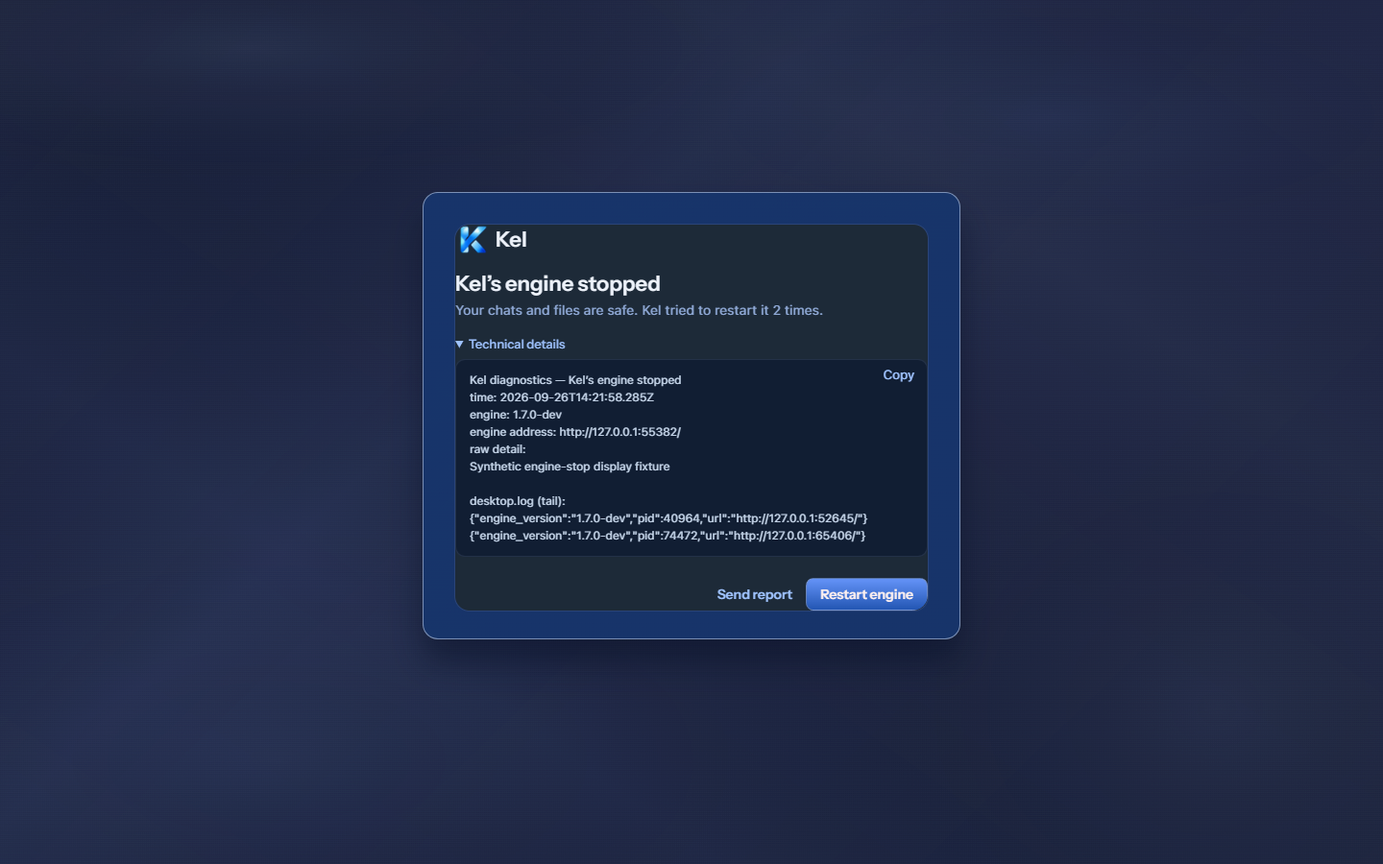
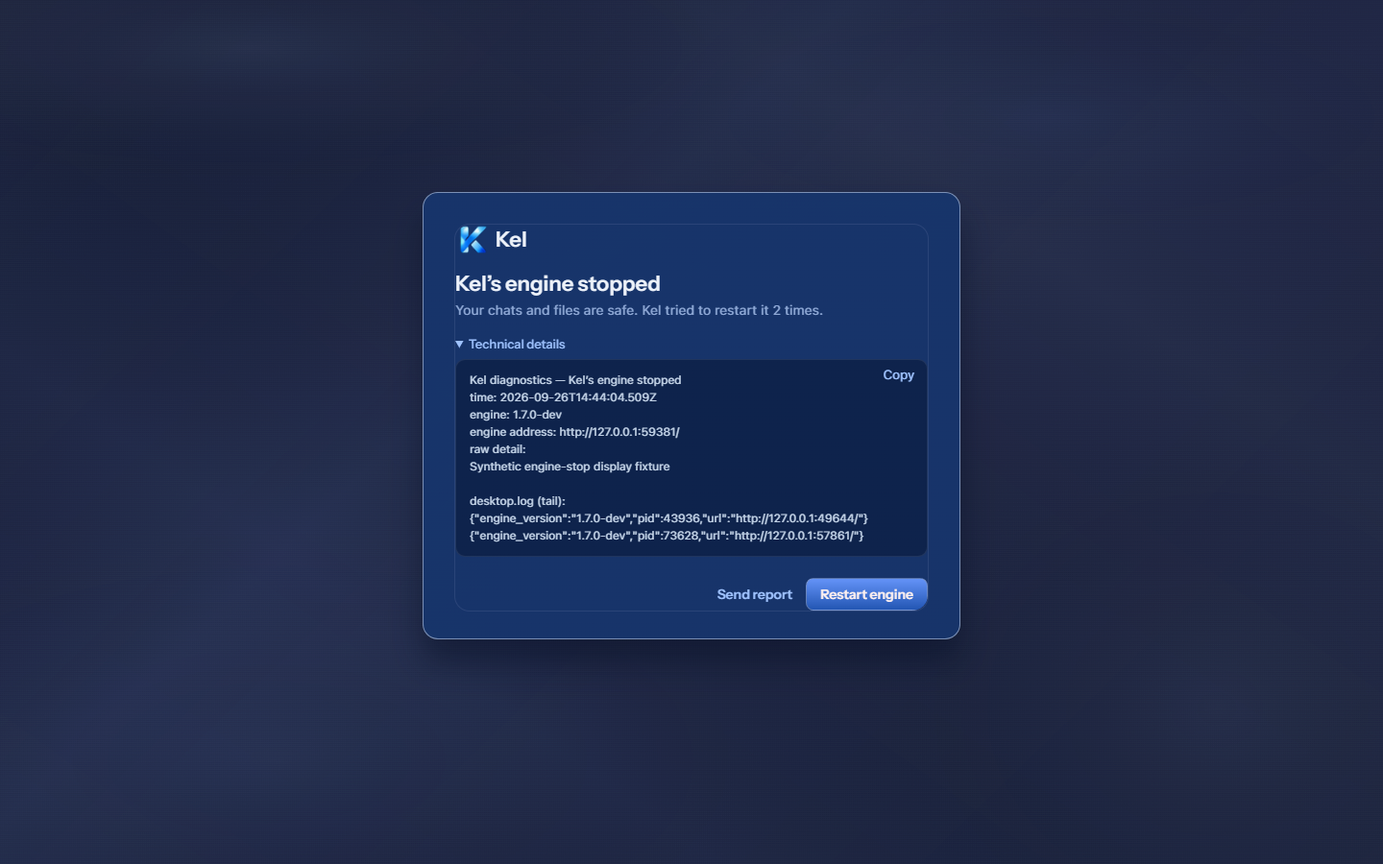
Complete desktop update and task delete dialogs

Changed region(s): [[0.3125, 0.2489, 0.6875, 0.7156]]

diff --git a/desktop/packages/desktop/src/renderer/styles/kel-shell.css b/desktop/packages/desktop/src/renderer/styles/kel-shell.css
@@ -3402,7 +3402,7 @@ html body .arco-modal.kel-diagnostics-export-modal { position: fixed; left: 50%;
 
 html body .arco-modal.kel-stopped-engine-modal { position: fixed; left: 50%; top: 200px !important; margin: 0 !important; translate: -50% 0; box-sizing: border-box; width: 560px !important; max-width: calc(100vw - 32px); padding: 32px 32px 28px; border: 1px solid rgba(221,233,255,.5); border-radius: 16px; background-color: rgba(15,45,100,.94) !important; background-image: linear-gradient(rgba(159,195,255,.05),rgba(159,195,255,.05)) !important; box-shadow: 0 24px 32px rgba(5,13,36,.45); }
 body:has(.kel-stopped-engine-modal) .arco-modal-mask { background: linear-gradient(rgba(30,75,176,.1),rgba(30,75,176,.1)),url('../assets/figma/canvas.svg') center/cover; opacity: 1; }
-.kel-stopped-engine-modal :is(.arco-modal-content,.aionui-modal-wrapper,.aionui-modal-std-body) { background: transparent !important; padding: 0; }
+html[data-theme='dark'] body .kel-stopped-engine-modal :is(.arco-modal-content,.aionui-modal-wrapper,.aionui-modal-body-content) { background: transparent !important; padding: 0; }
 .kel-stopped-engine-modal .kel-startup-logo { color: #edf2fa; }
 .kel-stopped-engine-body { display: flex; flex-direction: column; gap: 18px; margin-top: 18px; }
 .kel-stopped-engine-titles h1 { margin: 0 0 6px; color: #edf2fa; font: 600 22px/26px var(--kel-shell-heading); }
@@ -3414,3 +3414,34 @@ body:has(.kel-stopped-engine-modal) .arco-modal-mask { background: linear-gradie
 .kel-stopped-engine-actions { display: flex; justify-content: flex-end; gap: 10px; padding-top: 4px; }
 .kel-stopped-engine-actions .kel-btn { height: 34px; padding: 0 4px; border: 0; border-radius: 8px; background: transparent; color: #9fc3ff; font: 600 14px/20px var(--kel-shell-heading); }
 .kel-stopped-engine-actions .kel-btn--primary { padding: 0 14px; border: 1px solid rgba(140,150,167,.5); background: linear-gradient(#6493f8,#2356b3); color: #fff1f0; }
+
+/* Desktop update offer uses the current Figma modal; download/install states retain their controls. */
+html[data-theme='dark'] body .arco-modal.kel-update-available-modal { position: fixed; left: 50%; top: 220px !important; margin: 0 !important; translate: -50% 0; width: 500px !important; max-width: calc(100vw - 32px); box-sizing: border-box; border: 1px solid rgba(221,233,255,.5); border-radius: 16px; background-color: rgba(15,45,100,.94) !important; background-image: linear-gradient(rgba(159,195,255,.05),rgba(159,195,255,.05)) !important; backdrop-filter: blur(24px); box-shadow: 0 24px 32px rgba(5,13,36,.55); }
+html[data-theme='dark'] body .kel-update-available-modal :is(.arco-modal-content,.aionui-modal-wrapper,.aionui-modal-body-content) { background: transparent !important; }
+.kel-update-available-modal .aionui-modal-std-header { padding: 20px 24px 0; border: 0 !important; text-align: left; }
+.kel-update-available-modal .aionui-modal-std-header h3 { margin: 0; color: #edf2fa; font: 600 18px/22px var(--kel-shell-heading); text-align: left; }
+.kel-update-available-modal .aionui-modal-std-header p { margin: 4px 0 0; color: #8fa9d6; font: 400 13px/16px var(--kel-shell-body); }
+.kel-update-available-modal .aionui-modal-std-body { padding: 16px 24px 24px; }
+.kel-update-available-body { display: flex; flex-direction: column; gap: 16px; }
+.kel-update-available-notes { padding: 12px 14px; border-radius: 10px; background: rgba(6,18,46,.4); max-height: min(320px,35vh); overflow: auto; color: #c4d4e8; font: 400 13px/16px var(--kel-shell-body); overflow-wrap: anywhere; }
+.kel-update-available-notes h2 { margin: 0 0 6px; color: #9fc3ff; font: 500 12px/15px var(--kel-shell-heading); }
+.kel-update-available-notes :is(p,ul,ol) { margin: 0; font: inherit; }
+.kel-update-available-notes :is(ul,ol) { padding-left: 13px; }
+.kel-update-available-notes li + li { margin-top: 6px; }
+.kel-update-available-actions { display: flex; justify-content: flex-end; gap: 10px; }
+.kel-update-available-actions .kel-btn { height: 34px; padding: 0 4px; border: 0; background: transparent; color: #9fc3ff; font: 600 14px/20px var(--kel-shell-heading); }
+.kel-update-available-actions .kel-btn--primary { padding: 0 14px; border: 1px solid rgba(120,195,178,.55); background: linear-gradient(#16715e,#064b3e); color: #d3ffed; }
+body:has(.kel-update-available-modal) .arco-modal-mask { background: rgba(10,20,48,.62); }
+
+html[data-theme='dark'] body .arco-modal.kel-task-delete-modal { position: fixed; left: 50%; top: 300px !important; margin: 0 !important; translate: -50% 0; width: 460px !important; max-width: calc(100vw - 32px); box-sizing: border-box; border: 1px solid rgba(221,233,255,.5); border-radius: 16px; background-color: rgba(15,45,100,.94) !important; background-image: linear-gradient(rgba(159,195,255,.05),rgba(159,195,255,.05)) !important; backdrop-filter: blur(24px); box-shadow: 0 24px 32px rgba(5,13,36,.55); }
+html[data-theme='dark'] body .kel-task-delete-modal :is(.arco-modal-content,.aionui-modal-wrapper,.aionui-modal-body-content) { background: transparent !important; }
+.kel-task-delete-modal .aionui-modal-std-header { padding: 20px 24px 0; border: 0 !important; text-align: left; }
+.kel-task-delete-modal .aionui-modal-std-header h3 { margin: 0; color: #edf2fa; font: 600 18px/22px var(--kel-shell-heading); text-align: left; }
+.kel-task-delete-modal .aionui-modal-std-header p { margin: 6px 0 0; color: #8fa9d6; font: 400 13px/20px var(--kel-shell-body); }
+.kel-task-delete-modal .aionui-modal-std-body { padding: 16px 24px 24px; }
+.kel-task-delete-actions { display: flex; justify-content: flex-end; gap: 10px; }
+.kel-task-delete-actions .kel-btn { height: 34px; padding: 0 4px; border: 0; background: transparent; color: #9fc3ff; font: 600 14px/20px var(--kel-shell-heading); }
+.kel-task-delete-actions .kel-btn--primary { padding: 0 14px; border: 0; background: linear-gradient(#a6443f,#8b312d); color: #fff1f0; box-shadow: inset 0 1px rgba(255,255,255,.2),0 2px 6px rgba(6,18,46,.3); }
+body:has(.kel-task-delete-modal) .arco-modal-mask { background: rgba(10,20,48,.62); }
+
+html[data-theme='dark'] body .kel-stopped-engine-modal .aionui-modal-wrapper { border: 0 !important; box-shadow: none !important; }

diff --git a/desktop/packages/desktop/src/renderer/components/settings/UpdateNotificationCard.tsx b/desktop/packages/desktop/src/renderer/components/settings/UpdateNotificationCard.tsx
@@ -4,6 +4,11 @@
  * SPDX-License-Identifier: Apache-2.0
  */
 
+import AionModal from '@renderer/components/base/AionModal';
+import { KelButton } from '@renderer/components/kel/KelPrimitives';
+import { useLayoutContext } from '@renderer/hooks/context/LayoutContext';
+import ReactMarkdown from 'react-markdown';
+import { openExternalUrl } from '@renderer/utils/platform';
 import MarkdownView from '@/renderer/components/Markdown';
 import { useFeedback } from '@/renderer/hooks/context/FeedbackContext';
 import { Button, Modal, Progress } from '@arco-design/web-react';
@@ -23,6 +28,7 @@ const renderNotificationLayer = (node: React.ReactElement) => {
 
 const UpdateNotificationCard: React.FC = () => {
   const { t, i18n } = useTranslation();
+  const isMobile = Boolean(useLayoutContext()?.isMobile);
   const { state, versionLabel, actions } = useUpdateNotificationController();
   const { openFeedback } = useFeedback();
   const [releaseLogVisible, setReleaseLogVisible] = React.useState(false);
@@ -257,7 +263,23 @@ const UpdateNotificationCard: React.FC = () => {
 
   return renderNotificationLayer(
     <>
-      <section
+      {!isMobile && state.status === 'available' ? (
+        <AionModal visible className='kel-update-available-modal' variant='standard'
+          header={{ title: 'Update available', subtitle: `Kel ${versionLabel} is ready. You have ${state.currentVersion}.`, showClose: false }}
+          footer={null} closable={false} onCancel={() => actions.dismiss('later')} focusLock autoFocus
+          style={{ width: 500 }}>
+          <div className='kel-update-available-body'>
+            <section className='kel-update-available-notes' aria-label='What’s new'>
+              <h2>What’s new</h2>
+              {releaseNotes ? <ReactMarkdown components={{ a: ({ href, children }) => <a href={href} onClick={(event) => { event.preventDefault(); if (href && /^https?:/i.test(href)) void openExternalUrl(href); }}>{children}</a> }}>{releaseNotes}</ReactMarkdown> : <p>{state.releaseNotesStatus === 'failed' ? t('update.releaseNotesFailed') : t('update.releaseNotesLoading')}</p>}
+            </section>
+            <div className='kel-update-available-actions'>
+              <KelButton variant='quiet' onClick={() => actions.dismiss('later')}>{t('update.later')}</KelButton>
+              <KelButton variant='primary' disabled={!state.autoUpdateAvailable && !state.updateInfo?.recommendedAsset} onClick={actions.startDownload}>Download &amp; install</KelButton>
+            </div>
+          </div>
+        </AionModal>
+      ) : <section
         data-testid='update-notification-card'
         className='fixed end-24px bottom-24px z-1000 w-max min-w-300px max-w-[calc(100vw-32px)] bg-1 border border-border-2 rd-8px shadow-[0_2px_16px_rgba(0,0,0,0.12)] overflow-hidden'
       >
@@ -300,7 +322,7 @@ const UpdateNotificationCard: React.FC = () => {
             <div className='flex justify-start gap-8px px-16px pt-6px pb-12px'>{renderActions()}</div>
           </>
         )}
-      </section>
+      </section>}
       <Modal
         title={t('update.releaseLog')}
         visible={releaseLogVisible}

diff --git a/desktop/packages/desktop/src/renderer/pages/cron/ScheduledTasksPage/TaskDetailPage.tsx b/desktop/packages/desktop/src/renderer/pages/cron/ScheduledTasksPage/TaskDetailPage.tsx
@@ -4,6 +4,7 @@
  * SPDX-License-Identifier: Apache-2.0
  */
 
+import AionModal from '@renderer/components/base/AionModal';
 import React, { useCallback, useEffect, useRef, useState } from 'react';
 import { useTranslation } from 'react-i18next';
 import { useNavigate, useParams } from 'react-router-dom';
@@ -372,14 +373,14 @@ const TaskDetailPage: React.FC = () => {
           <span>Delete this task<small>Its conversations are deleted too.</small></span>
           <KelButton variant='primary' onClick={() => setConfirmDelete(true)}>Delete</KelButton>
         </div>
-        {confirmDelete && <div className='kel-task-detail-delete-confirm' role='alertdialog' aria-label='Delete scheduled task'>
-          <p>Delete this task and its conversations?</p>
-          <div className='kel-row'>
-            <span className='kel-grow' />
-            <KelButton variant='quiet' onClick={() => setConfirmDelete(false)}>Keep task</KelButton>
-            <KelButton variant='primary' onClick={() => void handleDelete()}>Delete task and conversations</KelButton>
+        {confirmDelete && <AionModal visible className='kel-task-delete-modal' variant='standard'
+          header={{ title: 'Delete this scheduled task?', subtitle: 'Its conversations are deleted too. This can’t be undone.', showClose: false }}
+          footer={null} closable={false} onCancel={() => setConfirmDelete(false)} focusLock autoFocus style={{ width: 460 }}>
+          <div className='kel-task-delete-actions'>
+            <KelButton variant='quiet' onClick={() => setConfirmDelete(false)}>Keep</KelButton>
+            <KelButton variant='primary' onClick={() => void handleDelete()}>Delete task</KelButton>
           </div>
-        </div>}
+        </AionModal>}
       </KelCard>
       <KelCard title='History' className='kel-task-detail-history' actions={conversations.length > 0 && (
         historyBatchMode ? <span className='kel-task-detail-history-actions'>

diff --git a/docs/v2/MARATHON_STATE.md b/docs/v2/MARATHON_STATE.md
@@ -12,9 +12,10 @@ setup_commit: 47eb3b49322a7cfbe85bbee7a0674c77037b127f   # V2 program initializa
 remote: https://github.com/BeardedBats/Kel
 
 phase: V2-19                # bounded product and Figma regression; release candidate still pending
-next_item: Desktop first: implement Update available, shared delete confirmation, then the remaining desktop frames and populated variants. Starting, stopped-engine, and diagnostics export have source evidence; their larger milestone package is pending. Canonical App stays 8c67121 until broader desktop completion. Keep mobile paused. Pet enable needs Nick’s policy decision; diagnostics maintenance needs matching engine operations.
+next_item: Desktop first: implement the remaining Ramble capture/API/merge/vetting, setup, Kibble, and other desktop frames/variants. Current startup, stopped-engine, diagnostics, update, and delete views have source evidence and await a larger milestone package. Keep mobile paused and canonical App at 8c67121 until broader desktop completion. Pet enable needs Nick’s policy decision; diagnostics maintenance needs matching engine operations.
 
 status: partial
+# [Desktop Update available and task delete confirmation](evidence/figma-full-audit/DESKTOP_SHARED_DIALOGS_SOURCE.md) pass source checks at 1440/800px. Update uses actual versions/release notes and existing download authority. Delete now uses the Figma modal; Keep/Escape and intercepted deletion handoff passed. TypeScript, source build, and three update-policy tests passed. Stopped-engine inner surface styling was corrected and rechecked. These changes await the next larger package. Canonical App and Data remain untouched. Current desktop context coverage is 66 READ / 9 PENDING; READ does not mean complete parity.
 # [Combined desktop milestone](evidence/figma-full-audit/DESKTOP_COMPLETION_MILESTONE_PACKAGE.md) passed packaged 1440/800px checks at `f8e6d86`: Work, Permissions, Knowledge, saved recipes, and chat menus. [Starting, stopped engine, and diagnostics export](evidence/figma-full-audit/DESKTOP_RUNTIME_VIEWS_SOURCE.md) now pass source checks at both widths. Real isolated restart and sanitized local export passed. TypeScript, source build, 17 runtime diagnostics tests, and the final 60-file/427-test desktop suite passed. These latest runtime views await the next larger package. Canonical App remains `8c67121`; durable Data was untouched.
 # [Desktop Knowledge and project recipes](evidence/figma-full-audit/DESKTOP_KNOWLEDGE_CURRENT_REVISION.md) now have 1440/800px source evidence. Proposal labels/order, row icons, card rhythm, map columns, saved-record scrolling, valid memory actions, and saved recipe links are implemented. Real isolated-engine mutations passed. TypeScript, ten focused Work/recipe tests, and 60 files / 427 desktop tests pass. The later combined milestone package passed; App and Data remain unchanged.
 # [Active/waiting Work and populated Permissions](evidence/figma-full-audit/DESKTOP_WORK_PERMISSIONS_STATES.md) pass real isolated-engine checks at 1440/800px. Job selection, current step, continuation instructions, wrapping, and scrolling are repaired. Answer request, Allow once, and Revoke passed through real engine routes. Auto Edit and Add a file labels match live Figma. TypeScript, source build, 19 Work/attention tests, and four menu DOM tests passed. App and Data were untouched. The later combined milestone package passed.

diff --git a/docs/v2/evidence/figma-full-audit/DESKTOP_SHARED_DIALOGS_SOURCE.md b/docs/v2/evidence/figma-full-audit/DESKTOP_SHARED_DIALOGS_SOURCE.md
@@ -1,0 +1,26 @@
+# Desktop shared dialogs — source evidence, 2026-09-26
+
+Fresh Figma Update available `273:10168` and Delete confirmation `273:11796` drove these changes. They use existing AionModal/KelButton components and engine/update authority. Mobile retains its current UI. These are current-renderer checks in the existing isolated packaged shell, not packaged renderer proof.
+
+## Update available
+
+The desktop offer is now a centered 500px modal at y220: x470 on 1440px and x150 on 800px. The frame has an 18px title, actual available/current versions, inline release notes, and Later / Download & install actions. Notes use existing Markdown dependencies with compact 13px text and 400 weight. No sample release copy enters production. The fixture supplies three synthetic notes and versions, giving a 261px height; real note length changes height within a bounded scroller.
+
+The measured surface is rgba(15,45,100,.94), radius 16px, blur 24px, with a full border and green action. Later and Escape passed at both widths. Download remains on the existing controller. It is disabled without an automatic download or recommended asset. Download, installation, and release-note external links were not invoked. Existing downloading, progress, cancel, minimize, install, error, and release-log views remain on their original path.
+
+## Delete scheduled task
+
+The previous inline confirmation is now the current 460×146 Figma modal at y300: x490 on 1440px and x170 on 800px. Its heading, deletion warning, Keep action, and red Delete task action match current copy and geometry. It retains the existing task/conversation deletion handler. Keep and Escape dismissed the modal at both widths. The final Delete task click invoked the existing HTTP deletion route and returned to Scheduled tasks under an intercepted response.
+
+The task GET/DELETE responses were injected for this display-only fixture. This proves presentation, dismissal, and action handoff, not persisted task or conversation deletion. Real fixture creation was attempted but failed before a record was created: raw request setup rejected JSON, and the form lacked an eligible model. No schedule ran. The final probe wrote no task or conversation and did not call a provider. Existing backend deletion behavior was unchanged.
+
+## Validation and limits
+
+Both widths had zero page/internal overflow and zero renderer errors. TypeScript, the source build, and three update-policy tests passed. The earlier full 60-file/427-test suite covers the preceding runtime-view batch. No full-suite result is claimed for these later dialogs. Current runtime views and these dialogs await a larger milestone package; canonical App remains `8c67121` and durable Data was untouched.
+
+The stopped-engine source surface also received a scoped style correction: its inner wrapper is transparent and has no second border. Final 1440/800px render/copy checks passed. Its previously verified real isolated restart was not repeated for this style change.
+
+![update at 1440px](DESKTOP_UPDATE_SOURCE_1440.png)
+![update at 800px](DESKTOP_UPDATE_SOURCE_800.png)
+![delete at 1440px](DESKTOP_DELETE_SOURCE_1440.png)
+![delete at 800px](DESKTOP_DELETE_SOURCE_800.png)

diff --git a/docs/v2/RESUME.md b/docs/v2/RESUME.md
@@ -4,7 +4,9 @@
 
 The live Kel Figma now uses desktop page `319:2` with 75 frames and mobile page `319:3858` with 50 frames. The old FINAL pages and most old frame IDs no longer resolve. [The current inventory](evidence/figma-full-audit/FIGMA_REVISION_2026-09-25.md) records the replacement IDs. All older Figma parity screenshots are **SUPERSEDED BY FIGMA REVISION** until compared with current frames. The canonical App still packages `8c67121`; do not cite it as proof for the new revision. Current Tools, Chat/drawer, approval, tool-call/plan, error, reconnecting, mobile model picker, mobile approval details, populated Transcriptions, mobile Ramble list/detail/vetting, mobile Projects, mobile Work empty state, mobile Activity running state, and mobile Permissions empty state have linked scoped package checks in the inventory.
 
-**Next item:** Desktop first: implement Update available, shared delete confirmation, then the remaining desktop frames and populated variants. Starting, stopped-engine, and diagnostics export have source evidence; their larger milestone package is pending. Canonical App stays 8c67121 until broader desktop completion. Keep mobile paused. Pet enable needs Nick’s policy decision; diagnostics maintenance needs matching engine operations.
+**Next item:** Desktop first: implement the remaining Ramble capture/API/merge/vetting, setup, Kibble, and other desktop frames/variants. Current startup, stopped-engine, diagnostics, update, and delete views have source evidence and await a larger milestone package. Keep mobile paused and canonical App at 8c67121 until broader desktop completion. Pet enable needs Nick’s policy decision; diagnostics maintenance needs matching engine operations.
+
+[Desktop Update available and task delete confirmation](evidence/figma-full-audit/DESKTOP_SHARED_DIALOGS_SOURCE.md) pass source checks at 1440/800px. Update uses actual versions/release notes and existing download authority. Delete now uses the Figma modal; Keep/Escape and intercepted deletion handoff passed. TypeScript, source build, and three update-policy tests passed. Stopped-engine inner surface styling was corrected and rechecked. These changes await the next larger package. Canonical App and Data remain untouched. Current desktop context coverage is 66 READ / 9 PENDING; READ does not mean complete parity.
 
 [Combined desktop milestone](evidence/figma-full-audit/DESKTOP_COMPLETION_MILESTONE_PACKAGE.md) passed packaged 1440/800px checks at `f8e6d86`: Work, Permissions, Knowledge, saved recipes, and chat menus. [Starting, stopped engine, and diagnostics export](evidence/figma-full-audit/DESKTOP_RUNTIME_VIEWS_SOURCE.md) now pass source checks at both widths. Real isolated restart and sanitized local export passed. TypeScript, source build, 17 runtime diagnostics tests, and the final 60-file/427-test desktop suite passed. These latest runtime views await the next larger package. Canonical App remains `8c67121`; durable Data was untouched.
 

diff --git a/docs/v2/evidence/figma-full-audit/FIGMA_REVISION_2026-09-25.md b/docs/v2/evidence/figma-full-audit/FIGMA_REVISION_2026-09-25.md
@@ -91,11 +91,11 @@
 | `273:9737` | Kel / Overlay — Slash menu | `shared shell / overlay` | [340px source render; actual commands](DESKTOP_CHAT_MENUS_CURRENT_REVISION.md). Labels now match; milestone package pending. | READ |
 | `273:9951` | Kel / Overlay — Attach menu | `shared shell / overlay` | [220px source render; both file paths](DESKTOP_CHAT_MENUS_CURRENT_REVISION.md). Actual catalog controls retained; milestone package pending. | READ |
 | `273:10383` | Kel / Overlay — Ramble API key | `/transcription` | New or replaced node; prior pair absent. | PENDING |
-| `273:10168` | Kel / Overlay — Update available | `shared shell / overlay` | Fresh context inspected; desktop modal implementation next. | READ |
+| `273:10168` | Kel / Overlay — Update available | `shared shell / overlay` | [Shared dialog source checks](DESKTOP_SHARED_DIALOGS_SOURCE.md); milestone package pending. | READ |
 | `273:10599` | Kel / Overlay — Ramble merge | `/transcription` | New or replaced node; prior pair absent. | PENDING |
 | `273:10837` | Kel / Overlay — Ramble vetting answers | `/transcription` | New or replaced node; prior pair absent. | PENDING |
 | `273:11082` | Kel / Overlay — Export diagnostics | `/diagnostics` | [Runtime source checks](DESKTOP_RUNTIME_VIEWS_SOURCE.md); milestone package pending. | READ |
-| `273:11796` | Kel / Overlay — Confirm delete | `shared shell / overlay` | New or replaced node; prior pair absent. | PENDING |
+| `273:11796` | Kel / Overlay — Confirm delete | `shared shell / overlay` | [Shared dialog source checks](DESKTOP_SHARED_DIALOGS_SOURCE.md); deletion handoff intercepted. | READ |
 | `273:1911` | Kel / Chat — Approval card | `/chat` | Current pending and settled shapes compared in isolated package at 1440px. | READ |
 | `273:12085` | Kel / State — Empty (Connections) | `/connections` | Current empty card implemented and compared in isolated package at 1440 and 800px. [Scoped evidence](DESKTOP_CONNECTIONS_CURRENT_REVISION.md). | READ |
 | `273:12291` | Kel / State — Loading (Activity) | `/activity` | [Isolated package checks](DESKTOP_PENDING_STATES_CURRENT_REVISION.md), source `98387fc`. | READ |

diff --git a/docs/v2/IMPLEMENTATION_STATUS.md b/docs/v2/IMPLEMENTATION_STATUS.md
@@ -1,5 +1,10 @@
 # KEL V2.0 — IMPLEMENTATION STATUS
 
+## Desktop shared dialogs (2026-09-26)
+
+[Desktop Update available and task delete confirmation](evidence/figma-full-audit/DESKTOP_SHARED_DIALOGS_SOURCE.md) pass source checks at 1440/800px. Update uses actual versions/release notes and existing download authority. Delete now uses the Figma modal; Keep/Escape and intercepted deletion handoff passed. TypeScript, source build, and three update-policy tests passed. Stopped-engine inner surface styling was corrected and rechecked. These changes await the next larger package. Canonical App and Data remain untouched. Current desktop context coverage is 66 READ / 9 PENDING; READ does not mean complete parity.
+
+
 ## Desktop milestone and runtime views (2026-09-26)
 
 [Combined desktop milestone](evidence/figma-full-audit/DESKTOP_COMPLETION_MILESTONE_PACKAGE.md) passed packaged 1440/800px checks at `f8e6d86`: Work, Permissions, Knowledge, saved recipes, and chat menus. [Starting, stopped engine, and diagnostics export](evidence/figma-full-audit/DESKTOP_RUNTIME_VIEWS_SOURCE.md) now pass source checks at both widths. Real isolated restart and sanitized local export passed. TypeScript, source build, 17 runtime diagnostics tests, and the final 60-file/427-test desktop suite passed. These latest runtime views await the next larger package. Canonical App remains `8c67121`; durable Data was untouched.

diff --git a/docs/v2/KNOWN_LIMITATIONS.md b/docs/v2/KNOWN_LIMITATIONS.md
@@ -1,5 +1,10 @@
 # KEL V2.0 — KNOWN LIMITATIONS
 
+## Desktop shared dialogs (2026-09-26)
+
+[Desktop Update available and task delete confirmation](evidence/figma-full-audit/DESKTOP_SHARED_DIALOGS_SOURCE.md) pass source checks at 1440/800px. Update uses actual versions/release notes and existing download authority. Delete now uses the Figma modal; Keep/Escape and intercepted deletion handoff passed. TypeScript, source build, and three update-policy tests passed. Stopped-engine inner surface styling was corrected and rechecked. These changes await the next larger package. Canonical App and Data remain untouched. Current desktop context coverage is 66 READ / 9 PENDING; READ does not mean complete parity.
+
+
 ## Desktop milestone and runtime views (2026-09-26)
 
 [Combined desktop milestone](evidence/figma-full-audit/DESKTOP_COMPLETION_MILESTONE_PACKAGE.md) passed packaged 1440/800px checks at `f8e6d86`: Work, Permissions, Knowledge, saved recipes, and chat menus. [Starting, stopped engine, and diagnostics export](evidence/figma-full-audit/DESKTOP_RUNTIME_VIEWS_SOURCE.md) now pass source checks at both widths. Real isolated restart and sanitized local export passed. TypeScript, source build, 17 runtime diagnostics tests, and the final 60-file/427-test desktop suite passed. These latest runtime views await the next larger package. Canonical App remains `8c67121`; durable Data was untouched.

diff --git a/docs/v2/TEST_EVIDENCE.md b/docs/v2/TEST_EVIDENCE.md
@@ -1,5 +1,10 @@
 # KEL V2.0 — TEST EVIDENCE
 
+## Desktop shared dialogs (2026-09-26)
+
+[Desktop Update available and task delete confirmation](evidence/figma-full-audit/DESKTOP_SHARED_DIALOGS_SOURCE.md) pass source checks at 1440/800px. Update uses actual versions/release notes and existing download authority. Delete now uses the Figma modal; Keep/Escape and intercepted deletion handoff passed. TypeScript, source build, and three update-policy tests passed. Stopped-engine inner surface styling was corrected and rechecked. These changes await the next larger package. Canonical App and Data remain untouched. Current desktop context coverage is 66 READ / 9 PENDING; READ does not mean complete parity.
+
+
 ## Desktop milestone and runtime views (2026-09-26)
 
 [Combined desktop milestone](evidence/figma-full-audit/DESKTOP_COMPLETION_MILESTONE_PACKAGE.md) passed packaged 1440/800px checks at `f8e6d86`: Work, Permissions, Knowledge, saved recipes, and chat menus. [Starting, stopped engine, and diagnostics export](evidence/figma-full-audit/DESKTOP_RUNTIME_VIEWS_SOURCE.md) now pass source checks at both widths. Real isolated restart and sanitized local export passed. TypeScript, source build, 17 runtime diagnostics tests, and the final 60-file/427-test desktop suite passed. These latest runtime views await the next larger package. Canonical App remains `8c67121`; durable Data was untouched.

diff --git a/docs/v2/evidence/figma-full-audit/DESKTOP_RUNTIME_VIEWS_SOURCE.md b/docs/v2/evidence/figma-full-audit/DESKTOP_RUNTIME_VIEWS_SOURCE.md
@@ -1,6 +1,6 @@
 # Desktop runtime views — source evidence, 2026-09-26
 
-Fresh Figma Starting `272:8149`, Engine not running `272:8364`, and Export diagnostics `273:11082` drove this implementation. Update available `273:10168` was also inspected; its implementation remains next. Source checks used the current renderer in the existing isolated packaged shell. These views are not yet included in a disposable package or canonical App.
+Fresh Figma Starting `272:8149`, Engine not running `272:8364`, and Export diagnostics `273:11082` drove this implementation. Update available `273:10168` and Delete confirmation have since gained [shared-dialog source evidence](DESKTOP_SHARED_DIALOGS_SOURCE.md). Source checks used the current renderer in the existing isolated packaged shell. These views are not yet included in a disposable package or canonical App.
 
 ## Starting
 
